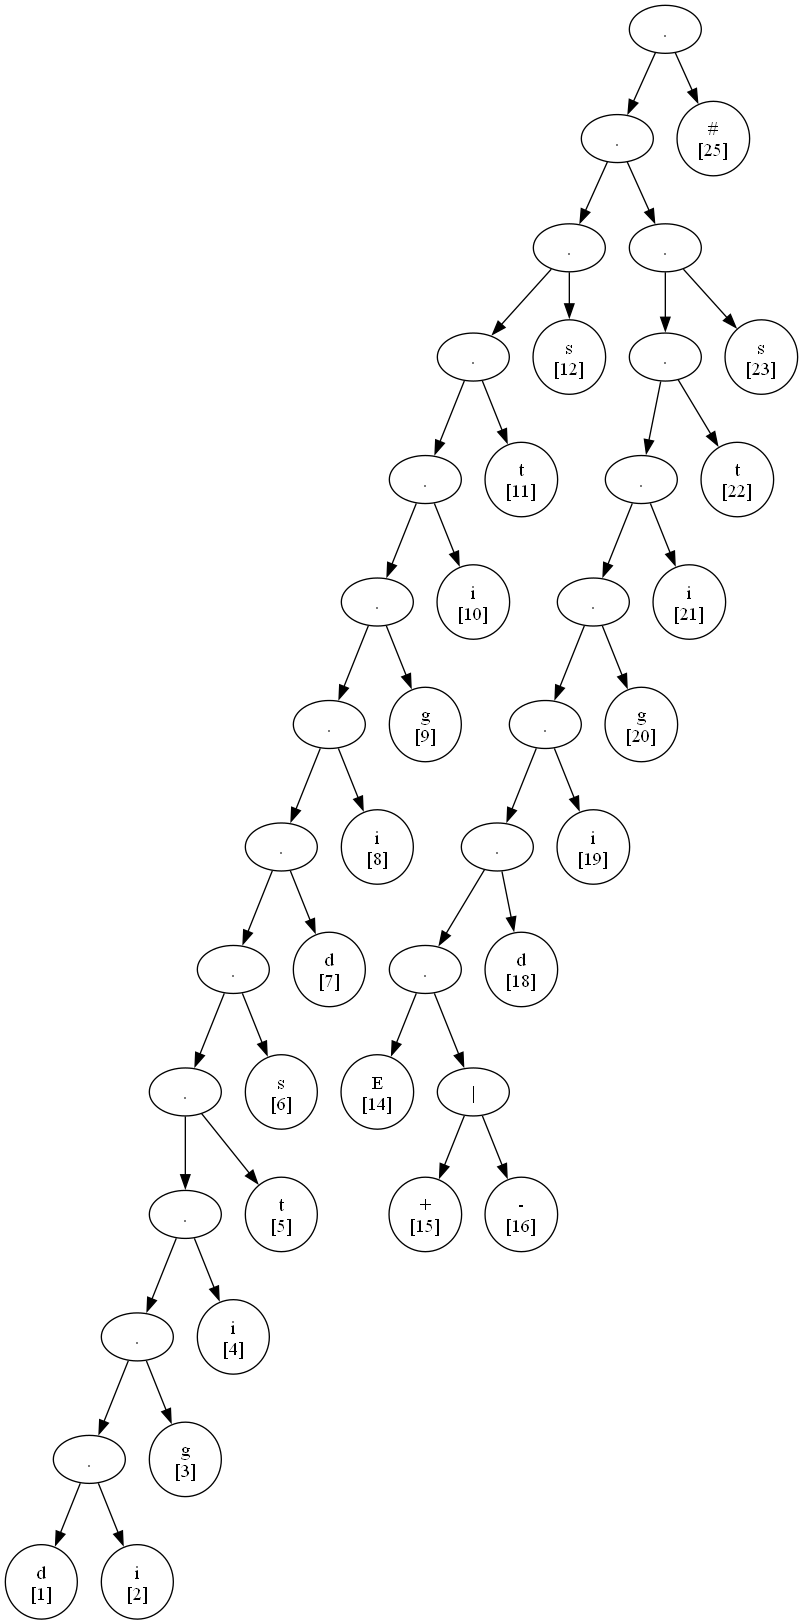
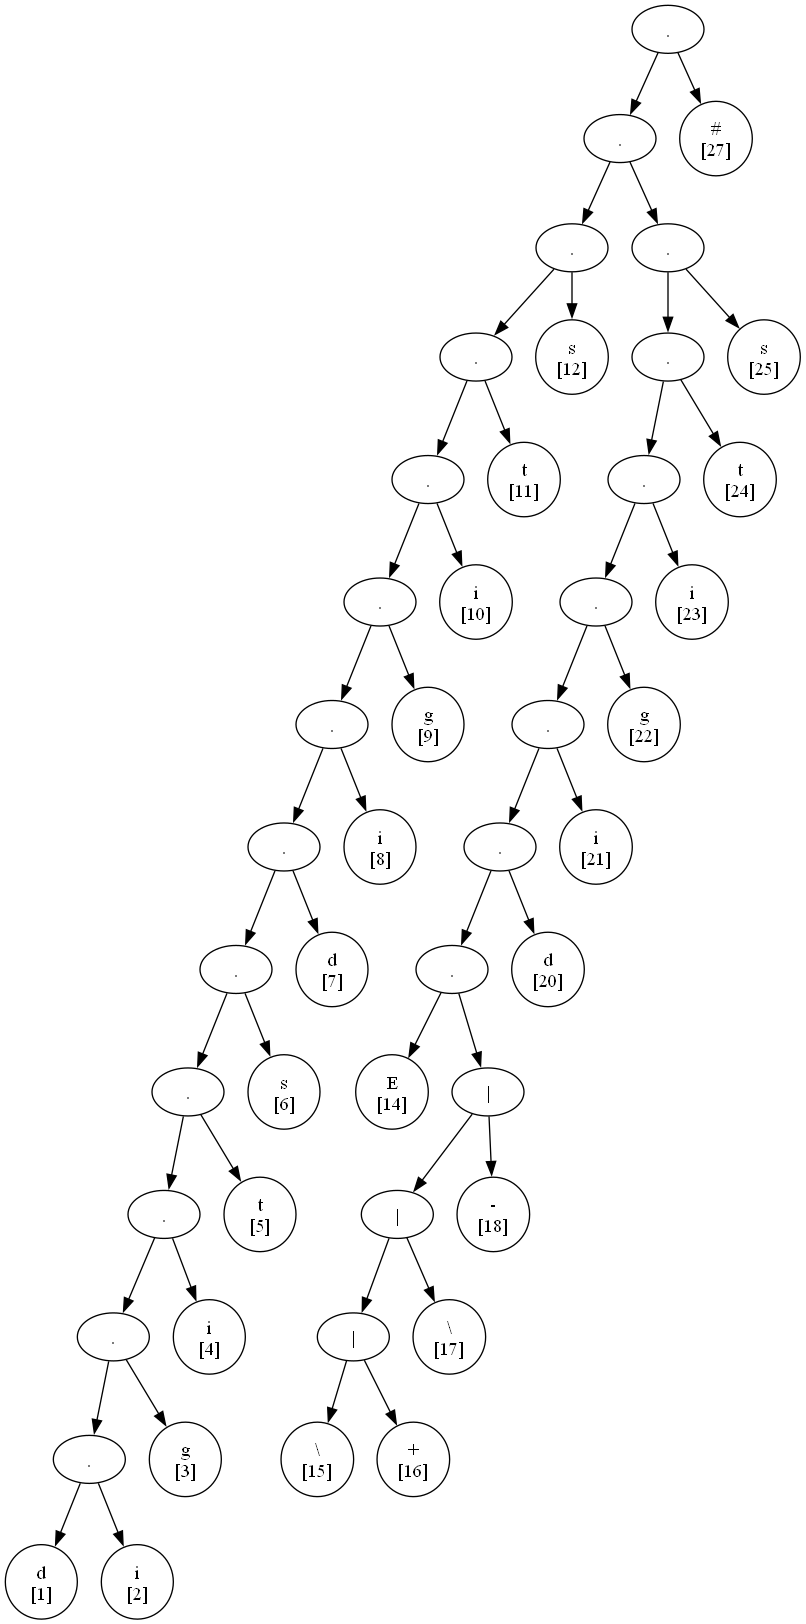
...

diff --git a/src/utils/expand_expression.py b/src/utils/expand_expression.py
@@ -1,6 +1,6 @@
 # utils/expand_expression.py
 
-SPECIAL_OPERATORS = {'+', '?', '*', '(', ')', '|', '.', '\\', '-', '[', ']'}
+SPECIAL_OPERATORS = {'+', '?', '*', '(', ')', '|', '.', '\\', '-', '[', ']', '{', '}'}
 
 
 def is_boundary(ch):
@@ -52,30 +52,23 @@ def expand_ranges(expr):
             if j >= len(expr):
                 result += expr[i:]
                 break
-            content = expr[i+1:j]
-            content = content.replace("'", "")
+            content = expr[i+1:j].replace("'", "")
 
             expanded = []
-            k = 0
+            k = 0  # Asegúrate de que 'k' siempre esté inicializado
             while k < len(content):
-                if content[k] == '\\' and k+1 < len(content):
-                    expanded.append(f"\\{content[k+1]}")
-                    k += 2
-                elif k+2 < len(content) and content[k+1] == '-':
-                    for c in range(ord(content[k]), ord(content[k+2]) + 1):
+                if k + 2 < len(content) and content[k + 1] == '-':  # Verifica si hay un rango
+                    for c in range(ord(content[k]), ord(content[k + 2]) + 1):
                         ch = chr(c)
-                        expanded.append(f"\\{ch}" if ch in SPECIAL_OPERATORS or ch == ' ' else ch)
-                    k += 3
+                        expanded.append(f"\\{ch}" if ch in SPECIAL_OPERATORS or ch.isspace() else ch)
+                    k += 3  # Aumentamos 'k' después de procesar el rango
                 else:
                     ch = content[k]
-                    if ch == ' ':
-                        expanded.append("\\s")
-                    else:
-                        expanded.append(f"\\{ch}" if ch in SPECIAL_OPERATORS else ch)
-                    k += 1
-            joined = '|'.join(expanded)
+                    expanded.append(f"\\{ch}" if ch in SPECIAL_OPERATORS or ch.isspace() else ch)
+                    k += 1  # Aumentamos 'k' normalmente
+            joined = '|'.join(expanded)  # Unimos todas las opciones del rango
             result += '(' + joined + ')'
-            i = j + 1
+            i = j + 1  # Continuamos después del corchete de cierre ']'
         else:
             result += expr[i]
             i += 1
@@ -83,19 +76,18 @@ def expand_ranges(expr):
     return result
 
 
+
 def escape_literals(expr):
     result = ""
     i = 0
     while i < len(expr):
-        if expr[i] == '"':
-            i += 1
-            continue
         if expr[i] == "'":
             j = i + 1
             literal = ""
             while j < len(expr) and expr[j] != "'":
-                if expr[j] == '\\' and j+1 < len(expr):
+                if expr[j] == '\\' and j + 1 < len(expr):
                     esc = expr[j+1]
+                    # Asegurarse de que todos los caracteres de escape sean correctamente procesados
                     if esc == 'n':
                         literal += '\\n'
                     elif esc == 't':
@@ -112,23 +104,18 @@ def escape_literals(expr):
                 else:
                     if expr[j] == ' ':
                         literal += '\\s'
+                    elif expr[j] in SPECIAL_OPERATORS or not expr[j].isalnum():
+                        literal += '\\' + expr[j]
                     else:
                         literal += expr[j]
                     j += 1
-            if literal:
-                result += ''.join([
-                    f"\\{ch}" if ch in SPECIAL_OPERATORS or not ch.isalnum() else ch
-                    for ch in literal
-                ])
+            result += literal
             i = j + 1
         else:
-            if expr[i] == ' ':
-                result += '\\s'
-            else:
-                result += expr[i]
+            result += expr[i]
             i += 1
-    print(f"[LOG] Después de escape_literals: {result}")
     return result
+
 
 
 def extract_last_operand(result):
@@ -150,7 +137,8 @@ def convert_plus(expr):
     while i < len(expr):
         if expr[i] == '+' and (i == 0 or expr[i-1] != '\\'):
             operand, prefix = extract_last_operand(result)
-            result = prefix + operand + f"({operand})*"
+            wrapped = f"({operand})" if not operand.startswith('(') else operand
+            result = prefix + wrapped + f"{wrapped}*"
             i += 1
         else:
             result += expr[i]
@@ -165,7 +153,8 @@ def convert_optional(expr):
     while i < len(expr):
         if expr[i] == '?' and (i == 0 or expr[i-1] != '\\'):
             operand, prefix = extract_last_operand(result)
-            result = prefix + f"({operand}|ε)"
+            wrapped = f"({operand})" if not operand.startswith('(') else operand
+            result = prefix + f"({wrapped}|ε)"
             i += 1
         else:
             result += expr[i]

diff --git a/src/lexer_program.py b/src/lexer_program.py
@@ -162,8 +162,9 @@ AFDS = {
         ('S10', 't'): 'S11',
         ('S11', 's'): 'S12',
         ('S12', 'E'): 'S13',
-        ('S13', '\\-'): 'S14',
         ('S13', '\\+'): 'S14',
+        ('S13', '\\\\'): 'S14',
+        ('S13', '\\-'): 'S14',
         ('S14', 'd'): 'S15',
         ('S15', 'i'): 'S16',
         ('S16', 'g'): 'S17',
